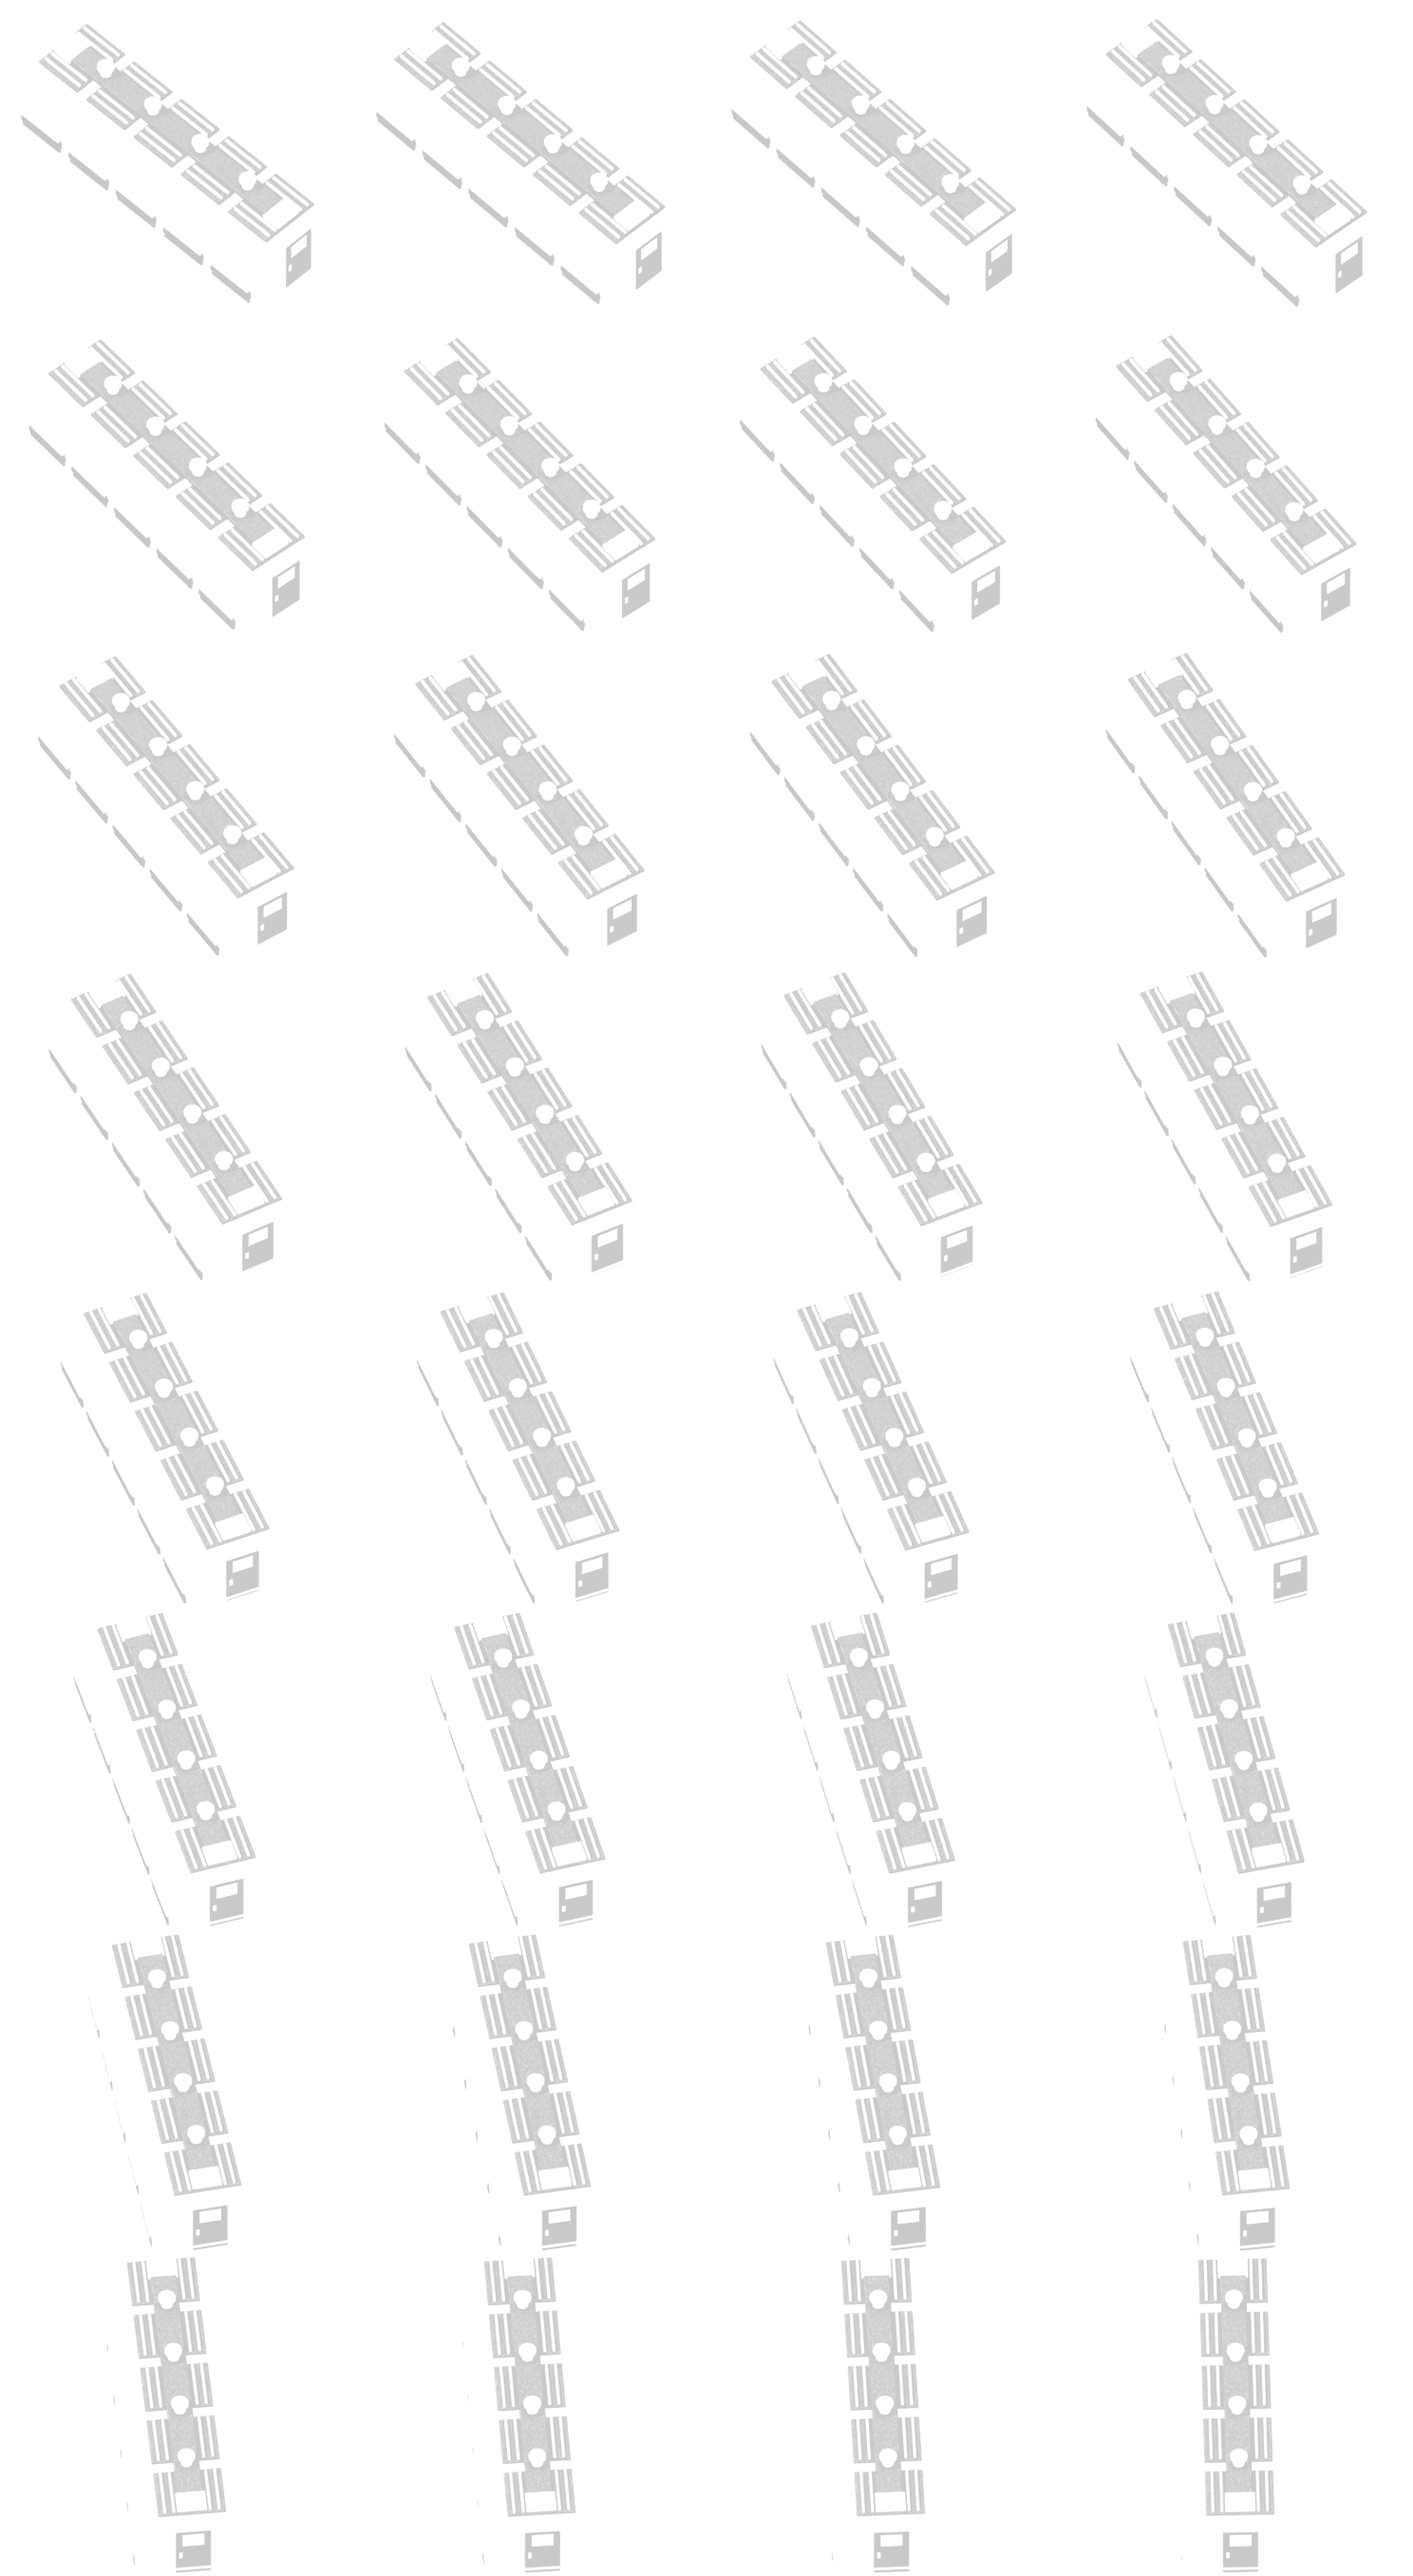
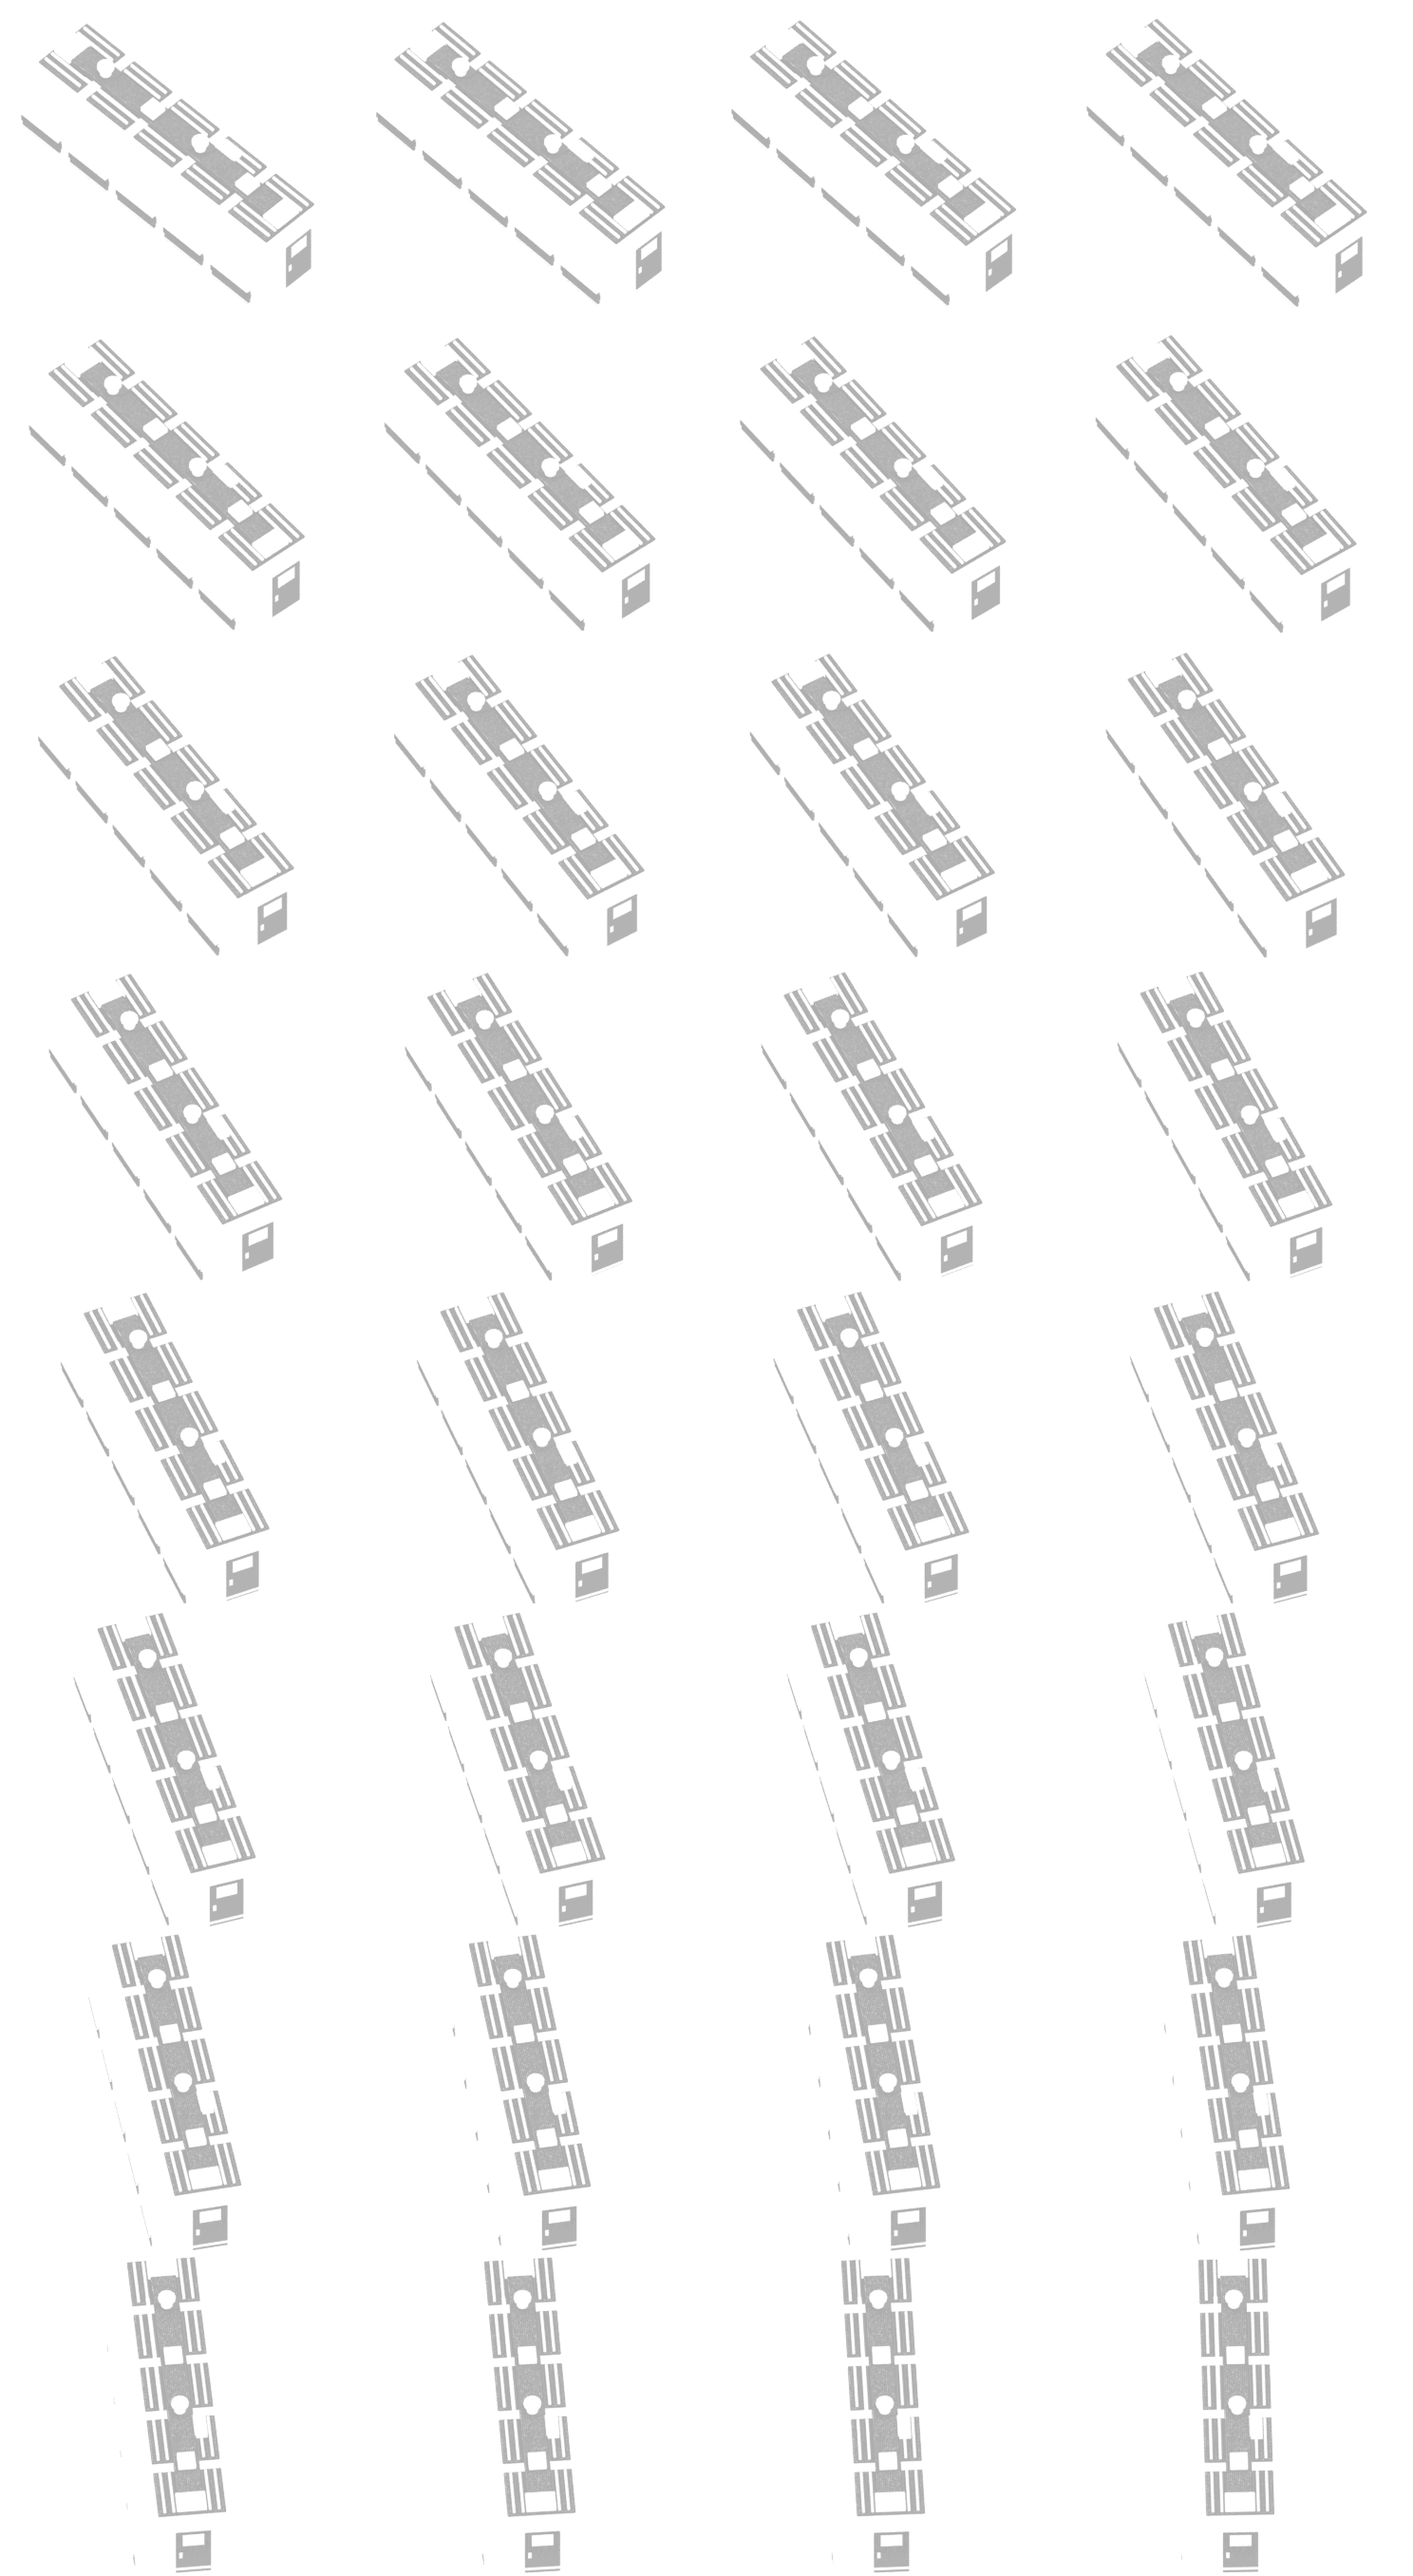
Crew wagon: darker mid-tones, shaded windows, varied roof
Mid-tones sink while highlights stay; windows sit back under a lintel with a
sash bar and a dimmer glow; pillars are darker worn metal; the paint colour is
deeper; the roof mixes domed vents with fan housings, a pipe and a tool box so
the bays don't repeat.

Claude-Session: https://claude.ai/code/session_014Wemv5cwp5HYEAEZSMe3qC

diff --git a/image-builder/crew-wagon/crew_wagon.py b/image-builder/crew-wagon/crew_wagon.py
@@ -219,12 +219,12 @@ def make_materials():
 	m = {}
 	m["body"] = node_material("body", (0.15, 0.14, 0.13), metallic=0.75, rough=0.42, ribs=9, bump=0.6, grime=0.6)
 	m["panel"] = node_material("panel", (0.2, 0.19, 0.175), metallic=0.7, rough=0.45, grime=0.55, ribs=11, bump=0.5)
-	m["rib"] = node_material("rib", (0.36, 0.35, 0.32), metallic=0.85, rough=0.32, grime=0.45)
+	m["rib"] = node_material("rib", (0.25, 0.24, 0.22), metallic=0.8, rough=0.4, grime=0.45)
 	m["chassis"] = node_material("chassis", (0.15, 0.085, 0.045), metallic=0.5, rough=0.65, grime=0.55)
 	m["dark"] = node_material("dark", (0.05, 0.048, 0.045), metallic=0.5, rough=0.55, grime=0.2, bump=0.1)
 	m["stripe"] = node_material("stripe", (0.11, 0.105, 0.1), metallic=0.3, rough=0.6, grime=0.35, ribs=11, bump=0.45)
 	m["glass"] = node_material("glass", (0.04, 0.04, 0.045), metallic=0.0, rough=0.12,
-		emission=(0.9, 0.5, 0.2, 1), strength=0.45, grime=0.1, bump=0)
+		emission=(0.75, 0.4, 0.15, 1), strength=0.28, grime=0.3, bump=0)
 	m["lamp"] = node_material("lamp", (1, 0.9, 0.7), metallic=0, rough=0.3,
 		emission=(1.0, 0.85, 0.55, 1), strength=14.0, grime=0, bump=0)
 	return m
@@ -373,8 +373,12 @@ def build_wagon(m):
 			x = s * (BODY_HALF_W + 0.005)
 			box(f"winframe{i}{s}", (0.05, inner - 0.08, 0.42), (x, y, wall_z - 0.12), m["dark"], root, bevel=0.012)
 			for k in (-1, 1):
+				wy = y + k * (inner / 4 - 0.01)
+				# glass set back in the frame, shaded by a lintel and split by a sash bar
 				box(f"win{i}{s}{k}", (0.06, inner / 2 - 0.12, 0.3),
-					(x, y + k * (inner / 4 - 0.01), wall_z - 0.12), m["glass"], root, bevel=0.006)
+					(x + s * 0.004, wy, wall_z - 0.12), m["glass"], root, bevel=0.006)
+				box(f"lintel{i}{s}{k}", (0.07, inner / 2 - 0.1, 0.06), (x + s * 0.012, wy, wall_z + 0.01), m["dark"], root, bevel=0.006)
+				box(f"sash{i}{s}{k}", (0.065, inner / 2 - 0.12, 0.025), (x + s * 0.01, wy, wall_z - 0.1), m["dark"], root, bevel=0)
 			box(f"mullion{i}{s}", (0.065, 0.05, 0.36), (x, y, wall_z - 0.12), m["rib"], root, bevel=0.005)
 			box(f"sill{i}{s}", (0.08, inner - 0.04, 0.04), (x, y, wall_z - 0.35), m["rib"], root, bevel=0.008)
 			box(f"stripe{i}{s}", (0.05, inner, 0.15), (x - s * 0.012, y, wall_z - 0.45), m["stripe"], root, bevel=0.006)
@@ -392,8 +396,16 @@ def build_wagon(m):
 	box("walkway", (0.42, BODY_LEN - 1.0, 0.07), (0, 0, ROOF_Z + 0.06), m["stripe"], root, bevel=0.015)
 	for i in range(1, BAYS):
 		y = -half + i * bay
-		cylinder(f"vent{i}", 0.1, 0.16, (0, y, ROOF_Z + 0.16), (0, 0, 0), m["rib"], root, verts=12)
-		cylinder(f"ventcap{i}", 0.15, 0.04, (0, y, ROOF_Z + 0.25), (0, 0, 0), m["dark"], root, verts=12)
+		if i % 2:
+			cylinder(f"vent{i}", 0.1, 0.16, (0, y, ROOF_Z + 0.16), (0, 0, 0), m["rib"], root, verts=12)
+			cylinder(f"ventcap{i}", 0.15, 0.04, (0, y, ROOF_Z + 0.25), (0, 0, 0), m["dark"], root, verts=12)
+		else:
+			# a boxy fan housing breaks up the row of domes
+			box(f"fan{i}", (0.3, 0.3, 0.1), (0, y, ROOF_Z + 0.14), m["rib"], root, bevel=0.015)
+			cylinder(f"fanblade{i}", 0.11, 0.02, (0, y, ROOF_Z + 0.2), (0, 0, 0), m["dark"], root, verts=12)
+	# pipes and a tool box along the walkway, offset so the bays differ
+	cylinder("roofpipe", 0.035, BODY_LEN * 0.45, (0.3, -0.6, ROOF_Z + 0.06), (math.pi / 2, 0, 0), m["chassis"], root, verts=8)
+	box("toolbox", (0.22, 0.42, 0.12), (-0.3, 0.9, ROOF_Z + 0.08), m["chassis"], root, bevel=0.015)
 	for s in (-1, 1):
 		box(f"hatch{s}", (0.5, 0.36, 0.08), (0, s * (half - 0.32), ROOF_Z + 0.06), m["rib"], root, bevel=0.015)
 		box(f"hatchwheel{s}", (0.16, 0.16, 0.03), (0, s * (half - 0.32), ROOF_Z + 0.11), m["dark"], root, bevel=0.01)

diff --git a/image-builder/crew-wagon/pack_sprites.py b/image-builder/crew-wagon/pack_sprites.py
@@ -47,6 +47,8 @@ def prepare(layer, im, color=None):
 		rgb = rgba[..., :3]
 		lum = rgb @ np.array([0.299, 0.587, 0.114], dtype=np.float32)
 		target = np.clip((lum - 68) * 1.5 + 84, 0, 255)
+		# then sink the mid-tones while leaving the highlights alone
+		target = target * (0.82 + 0.18 * np.minimum(target / 170, 1))
 		sat = rgb.max(-1) - rgb.min(-1)
 		cap = 1.45 - 0.35 * np.clip(sat / 60, 0, 1)  # keep the amber windows dim
 		gain = np.minimum(target / np.maximum(lum, 1), cap)[..., None]
@@ -65,8 +67,8 @@ def prepare(layer, im, color=None):
 			mean, std = lum[inside].mean(), max(lum[inside].std(), 1.0)
 		else:
 			mean, std = 128.0, 1.0
-		gray = np.clip(105 + 50 * (lum - mean) / std, 20, 220)
-		alpha = cover * np.clip(0.2 + 0.15 * gray / 105, 0.12, 0.5)
+		gray = np.clip(85 + 50 * (lum - mean) / std, 20, 200)
+		alpha = cover * np.clip(0.28 + 0.2 * gray / 85, 0.15, 0.62)
 		g = Image.fromarray(gray.astype(np.uint8))
 		im = Image.merge("RGBA", (g, g, g, Image.fromarray((alpha * 255).astype(np.uint8))))
 	return im
